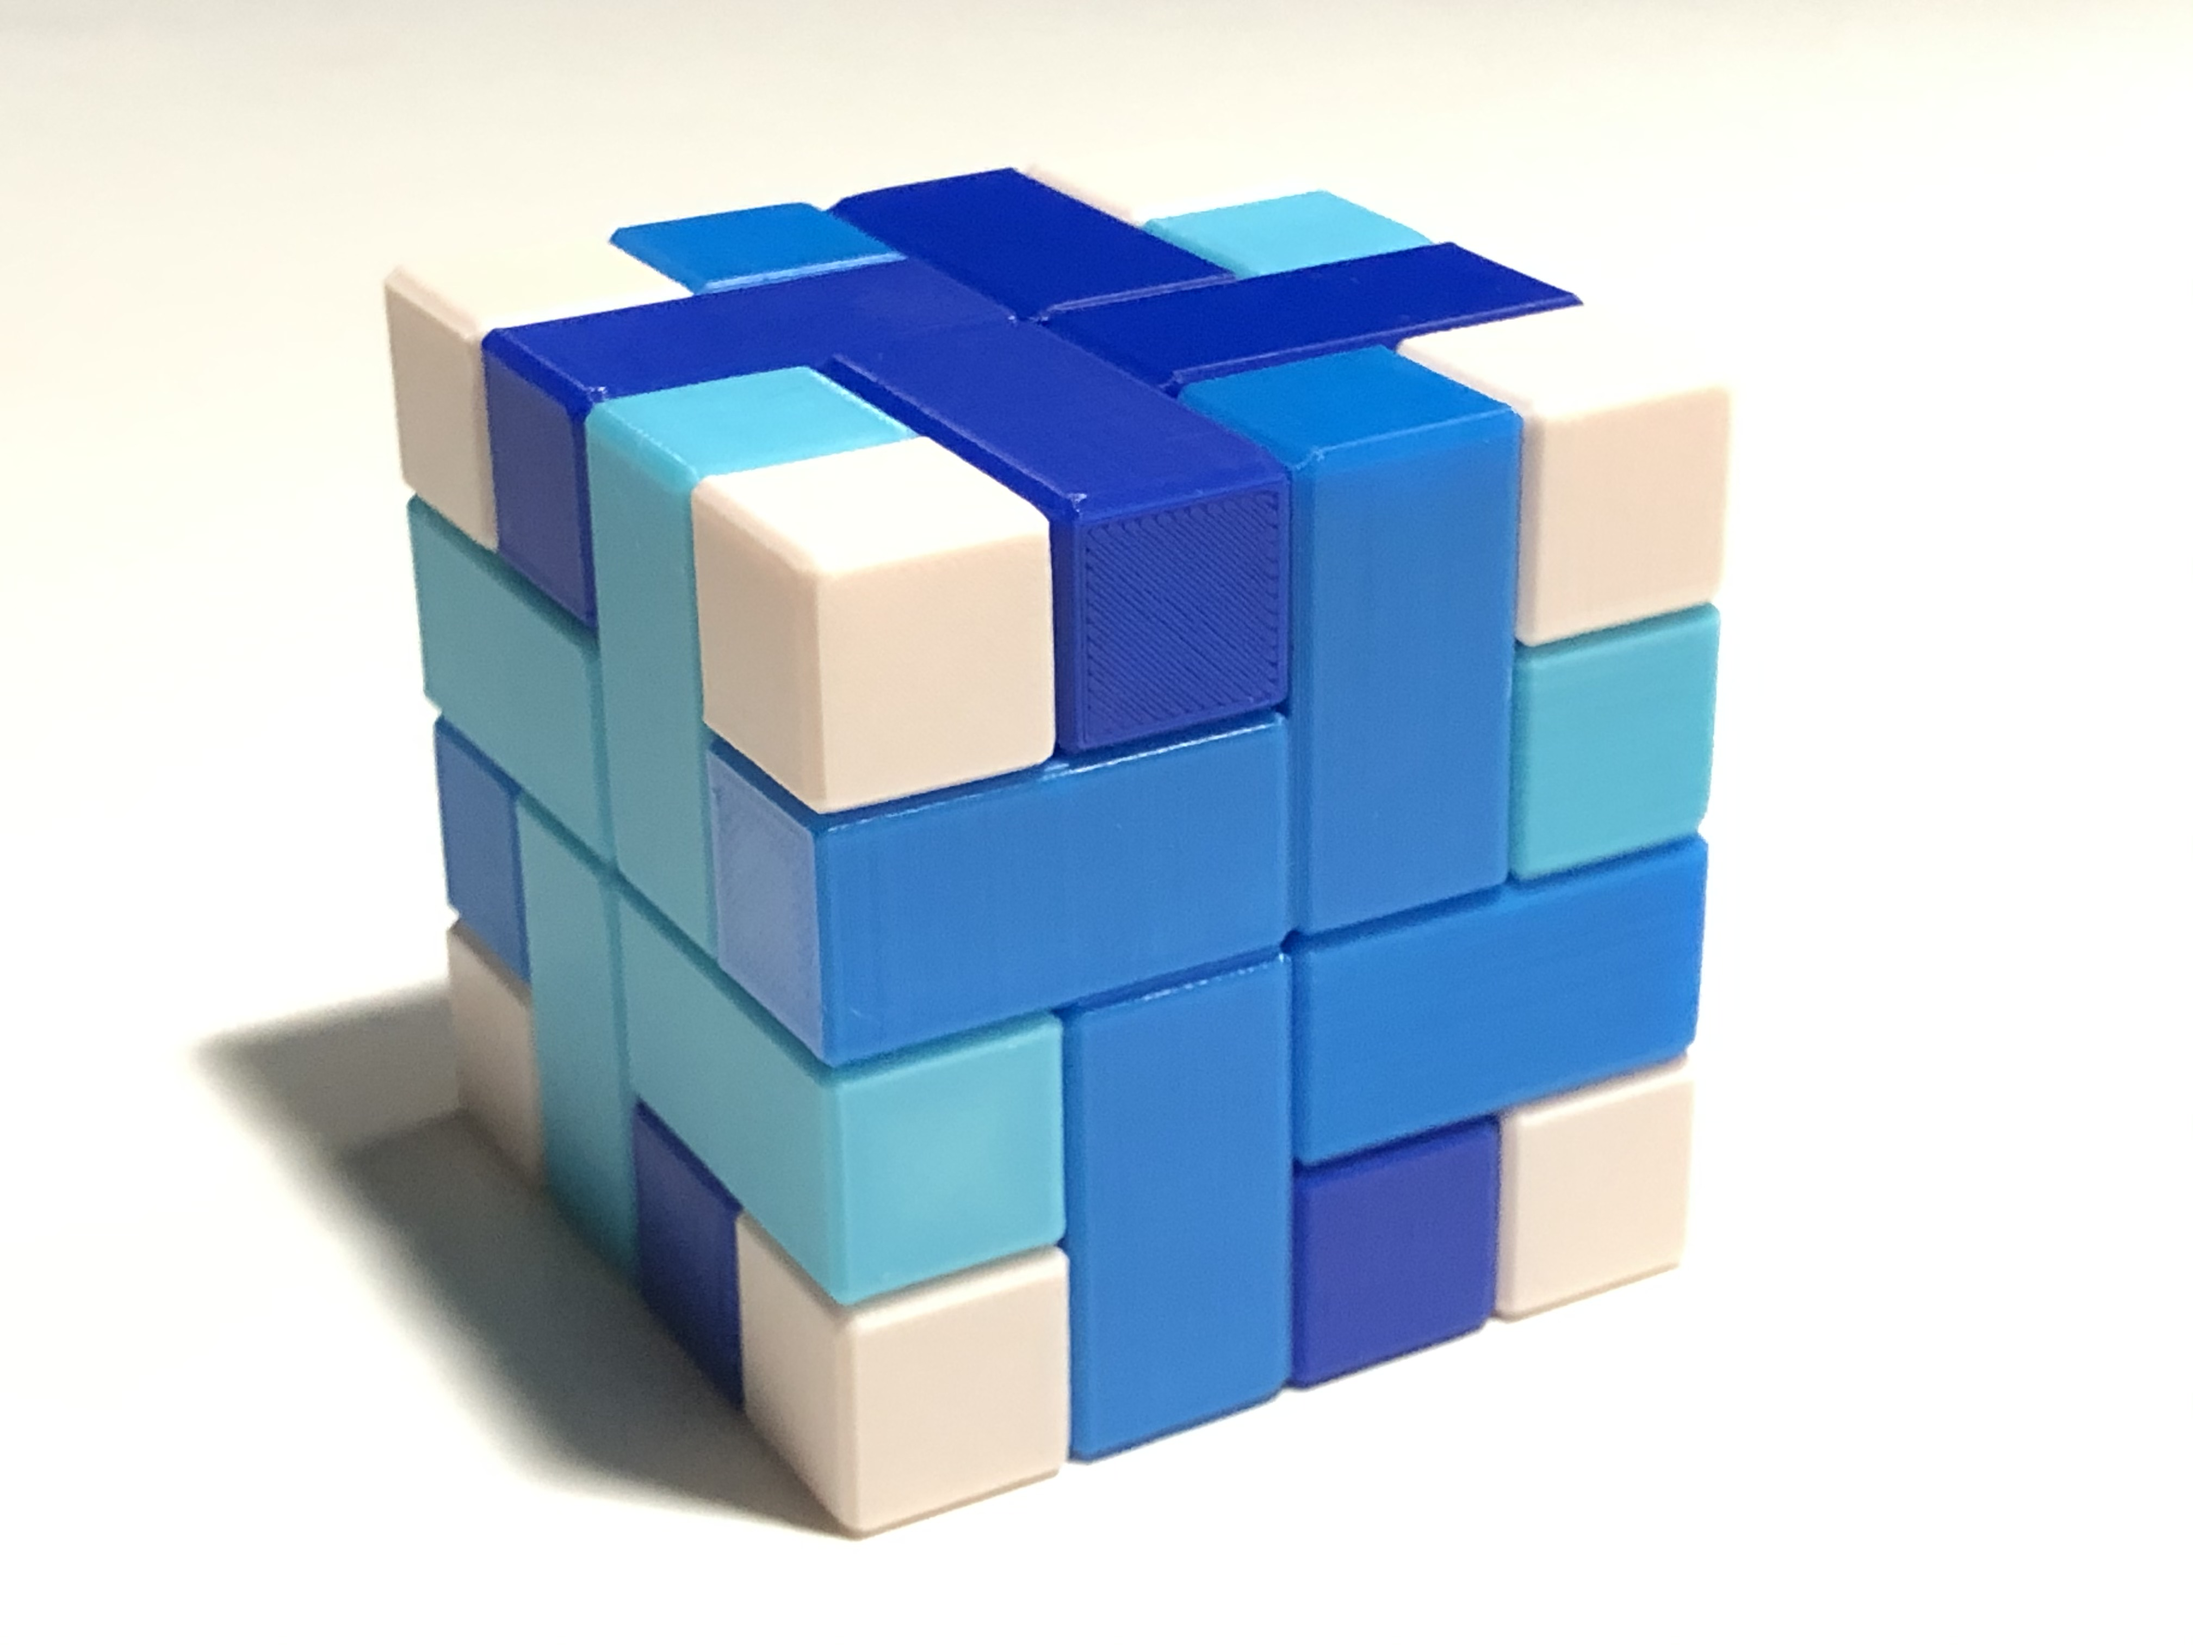
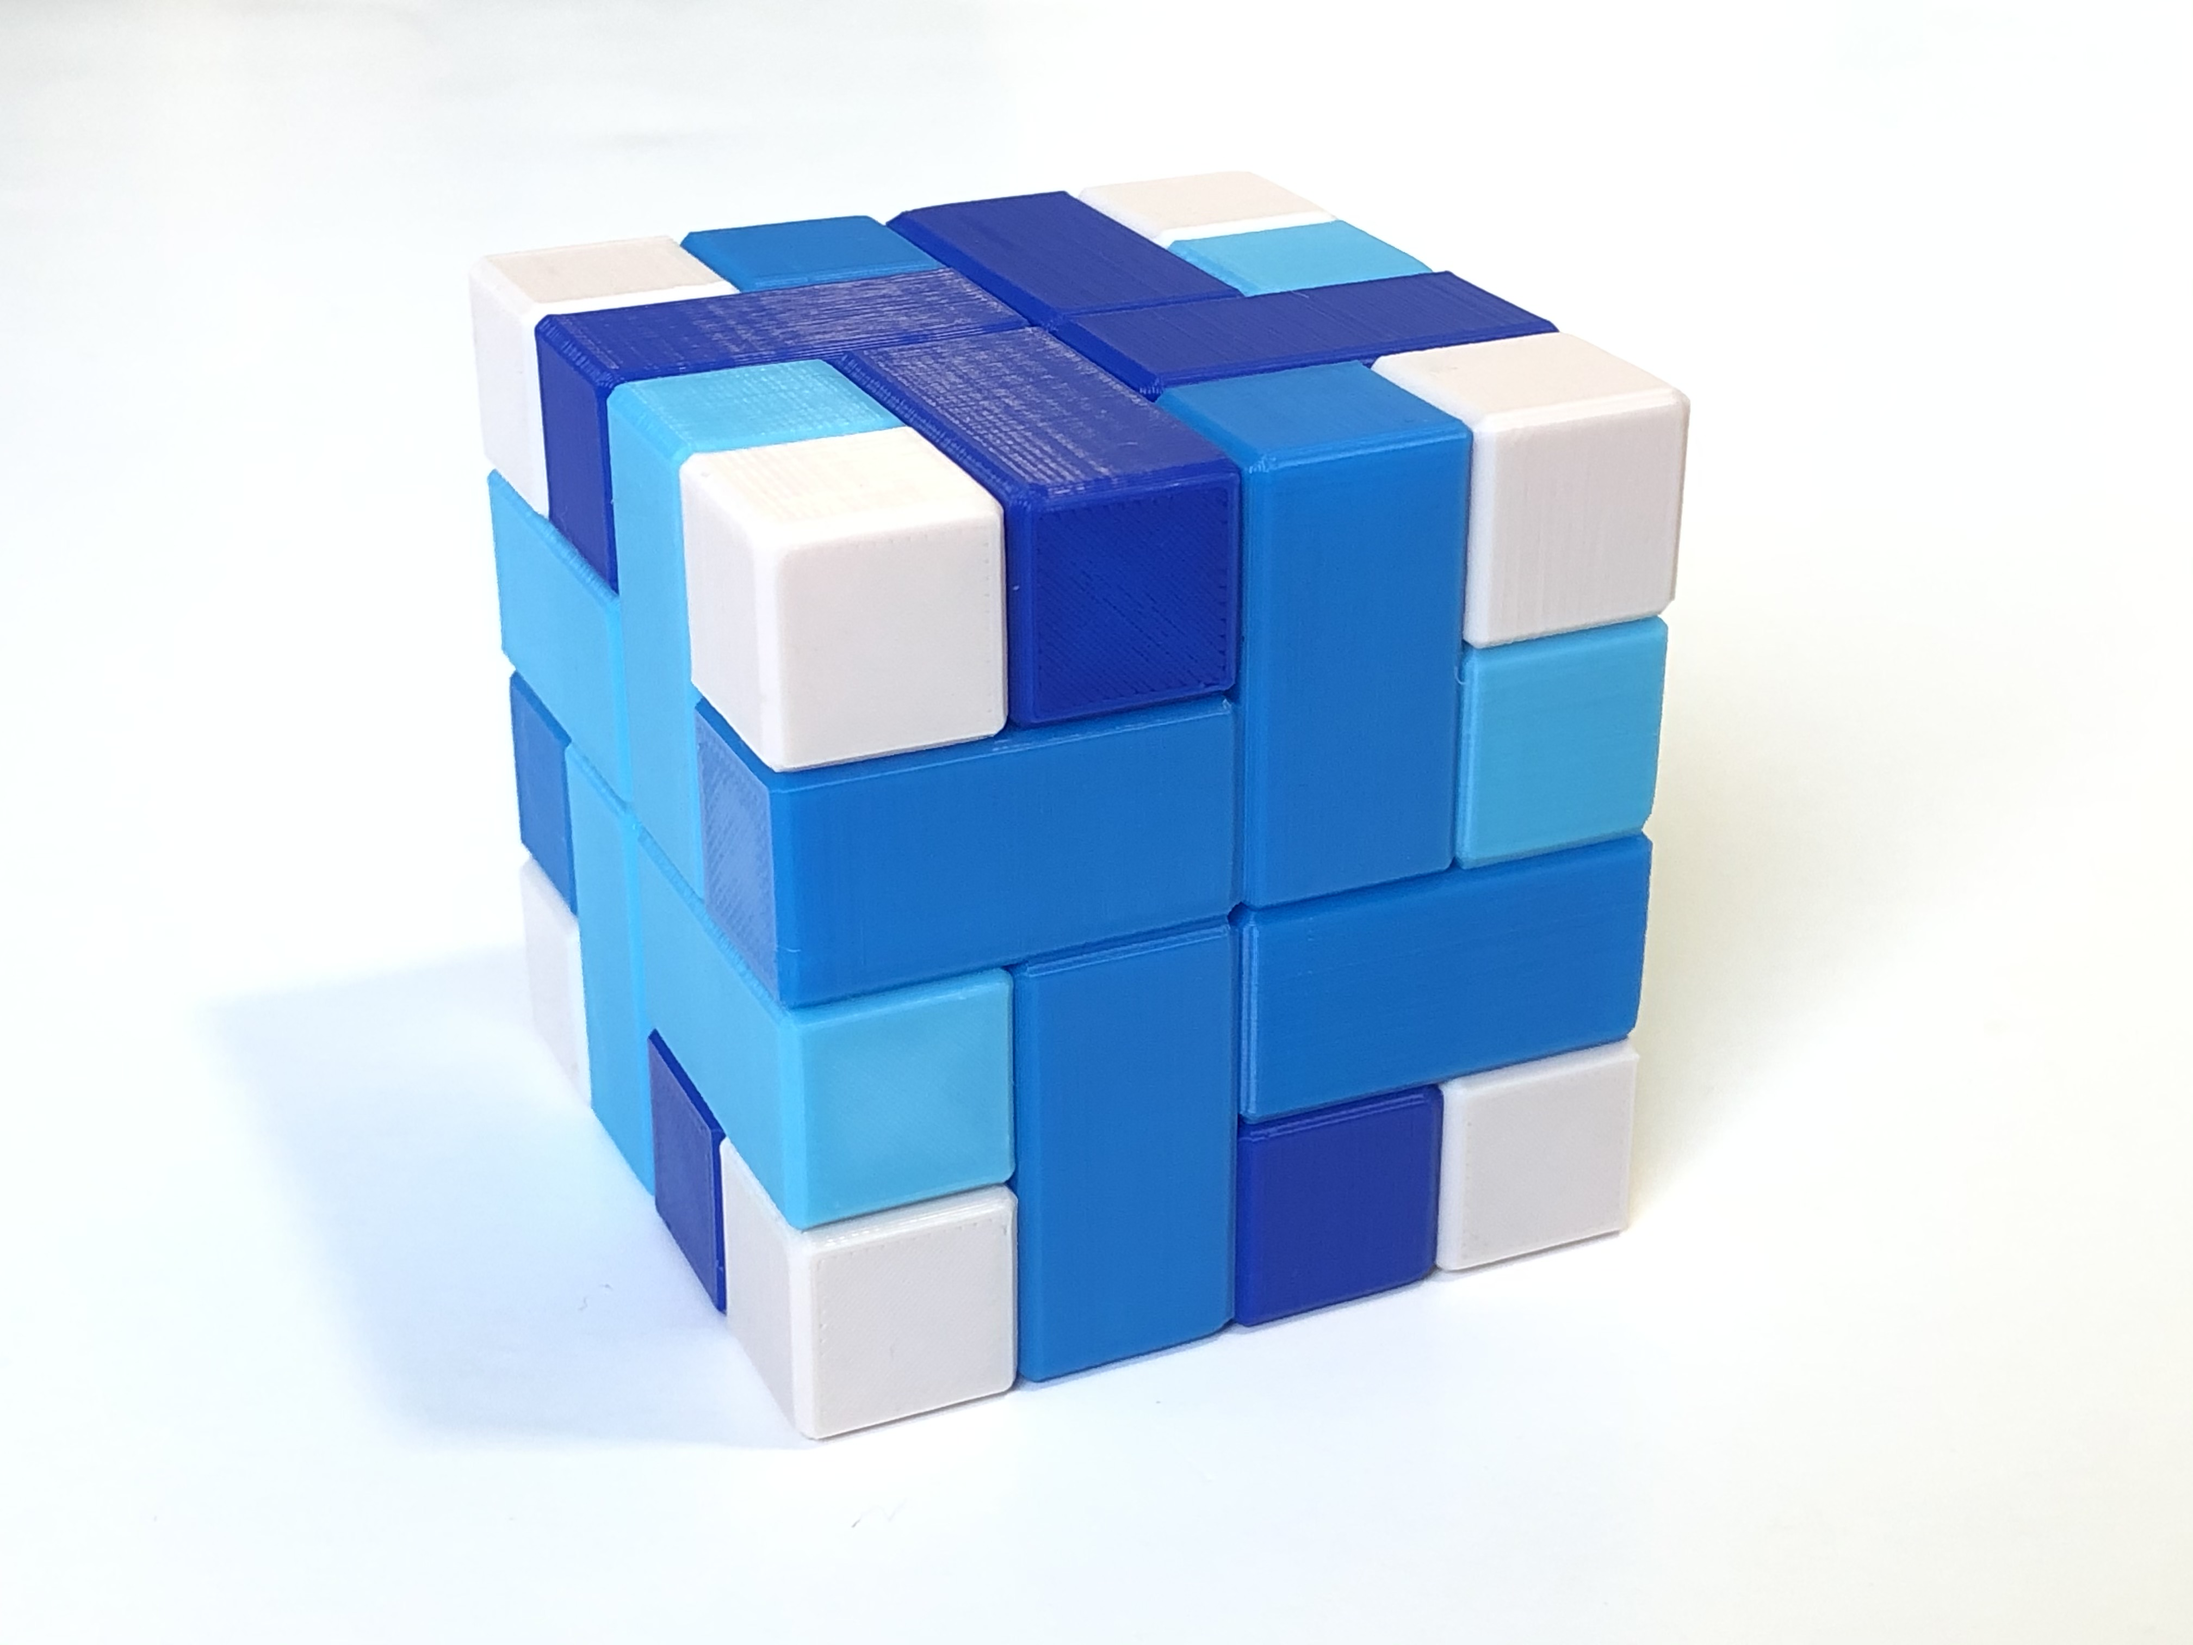
Numerous updates and new photos for Stewart Coffin puzzles

diff --git a/scripts/admin.py b/scripts/admin.py
@@ -39,7 +39,7 @@ def process_command(args):
 		
 	elif args.command == 'build':
 	
-		build_stls(args.cmdargs[0], load_yaml_file(args.cmdargs[0]))
+		build_stls(args.cmdargs[0])
 		
 	elif args.command == "bundle-puzzlecad":
 	
@@ -89,21 +89,22 @@ def delete_thing(access_token, thing_id):
 
 	thingiverse_delete(f'things/{thing_id}', access_token)
 
-def update_thing(access_token, yaml_file, targets_str):
+def update_thing(access_token, thing_name, targets_str):
 
 	targets = targets_str.split(',')
-
-	contents = load_yaml_file(yaml_file)
+	
+	yaml_path = resolve_thing(thing_name)
+	contents = load_yaml_file(yaml_path)
 	name = contents['name']
 	thing_id = contents['thing-id']
 	description = substitute_globals(contents['description'])
 	
-	print(f'Updating thing "{name}" from file {yaml_file} ...')
+	print(f'Updating thing "{name}" from file {yaml_path} ...')
 		
 	if 'files' in targets:
 	
 		# Build the STLs first before uploading anything
-		build_stls(yaml_file, contents)
+		build_stls(thing_name)
 		
 	split_name = name.split(" - ")
 	description_title = f'## {name}' if len(split_name) <= 1 else f'## {split_name[0]}\n\n### {split_name[1]}'
@@ -120,7 +121,7 @@ def update_thing(access_token, yaml_file, targets_str):
 	
 	thingiverse_patch(f'things/{thing_id}', access_token, attributes)
 	
-	dir = os.path.dirname(yaml_file)
+	dir = os.path.dirname(yaml_path)
 	
 	if 'images' in targets:
 	
@@ -134,7 +135,7 @@ def update_thing(access_token, yaml_file, targets_str):
 	
 		thingiverse_clean(thing_id, 'files')
 	
-		root = os.path.splitext(yaml_file)[0]
+		root = os.path.splitext(yaml_path)[0]
 		scad_path = root + ".scad"
 		abs_scad_path = os.path.abspath(scad_path)
 		scad_file = os.path.basename(scad_path)
@@ -153,7 +154,17 @@ def update_thing(access_token, yaml_file, targets_str):
 				modularized_name = f'{scad_root}{configuration_name}' if stl_target == "--" else f'{scad_root}.{stl_target_dashes}{configuration_name}'
 				stl_target_path = f'{output_dir}/{modularized_name}.stl'
 				thingiverse_post_file(thing_id, stl_target_path)
-			
+				
+def resolve_thing(thing_name):
+
+	print(f'../src/main/scad/**/{thing_name}.yaml')
+	yaml_path = glob(f'../src/main/scad/**/{thing_name}.yaml', recursive = True)
+	
+	if len(yaml_path) == 0:
+		raise Exception(f'Thing not found: {thing_name}')
+		
+	return yaml_path[0];
+
 def load_yaml_file(yaml_file):
 
 	file = open(yaml_file, mode = 'r')
@@ -161,9 +172,11 @@ def load_yaml_file(yaml_file):
 	file.close()
 	return yaml.load(contents, Loader = yaml.FullLoader)
 	
-def build_stls(yaml_file, contents):
+def build_stls(thing_name):
 	
-	root = os.path.splitext(yaml_file)[0]
+	yaml_path = resolve_thing(thing_name)
+	contents = load_yaml_file(yaml_path)
+	root = os.path.splitext(yaml_path)[0]
 	scad_path = root + ".scad"
 	
 	print(f'Building STLs from source {scad_path} ...')
@@ -376,7 +389,7 @@ def thingiverse_clean(thing_id, artifact_type):
 		
 def run_test(access_token):
 
-	thingiverse_patch(f'things/3355035/images/12582819', access_token, {'rank': -1, 'featured': True})
+	thingiverse_delete(f'things/3198014/files/7668891', access_token)
 
 globals = load_yaml_file('../src/main/scad/globals.yaml')
 
